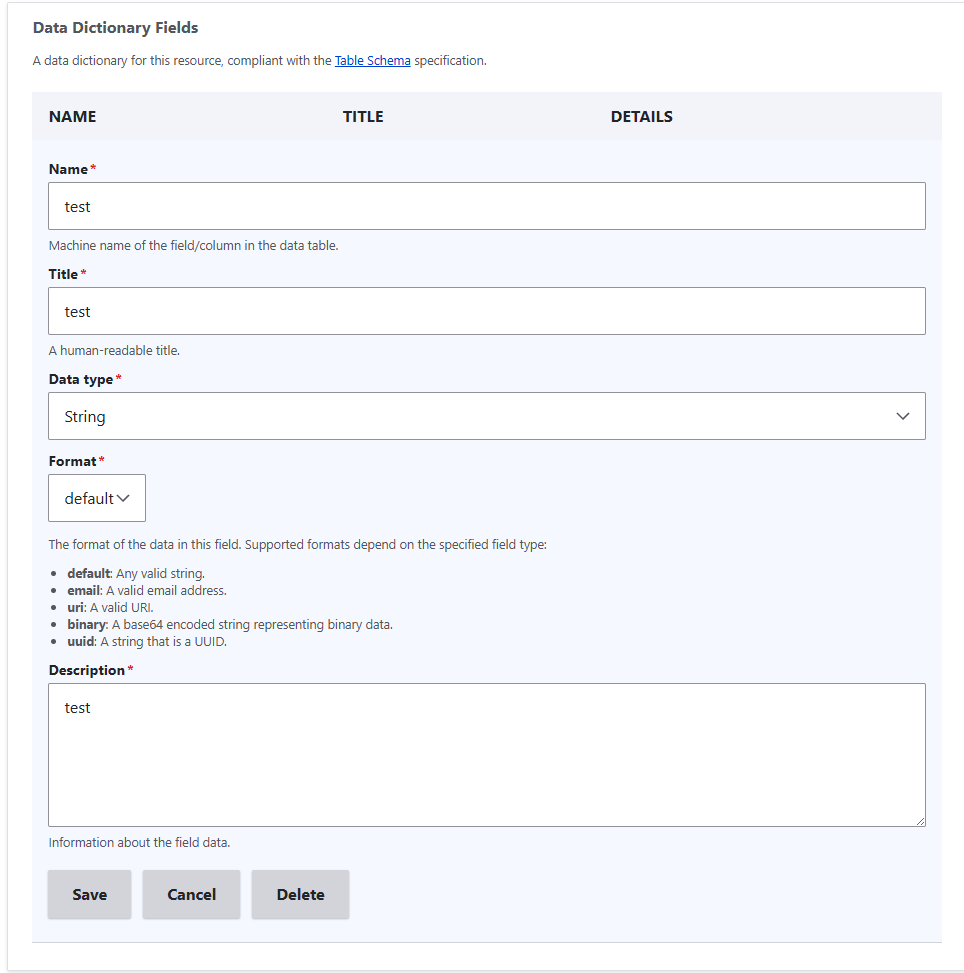
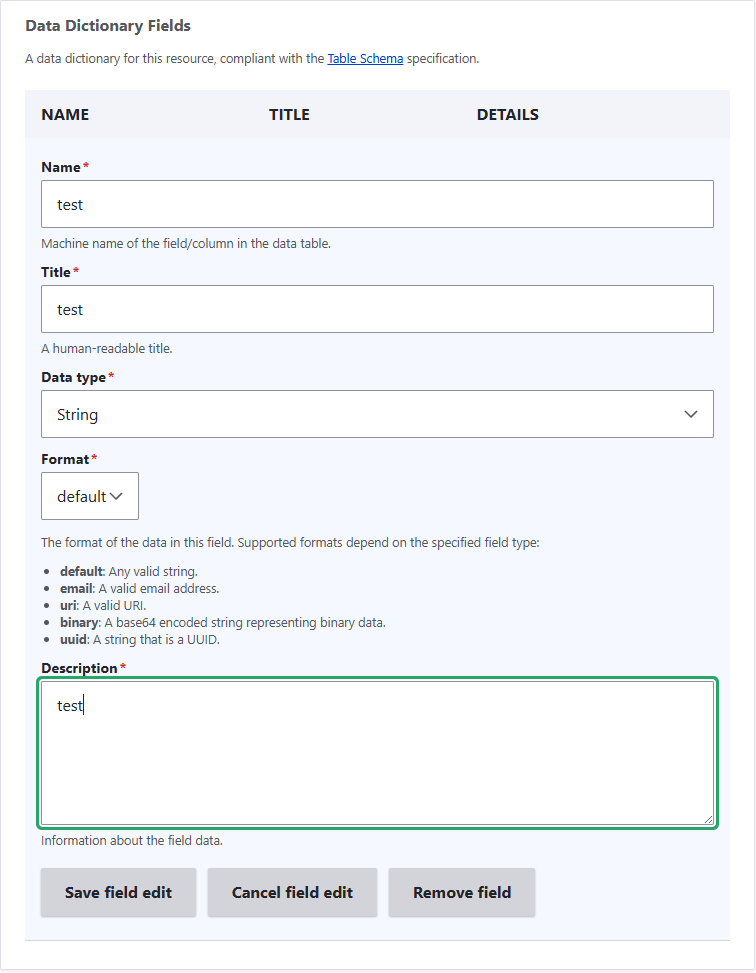
Dictionary-Widget: Streamline the button labels for the Index and Index Fields (#4324)

diff --git a/modules/data_dictionary_widget/src/Indexes/IndexFieldButtons.php b/modules/data_dictionary_widget/src/Indexes/IndexFieldButtons.php
@@ -13,7 +13,7 @@ class IndexFieldButtons {
   public static function addIndexFieldButton() {
     return [
       '#type' => 'submit',
-      '#value' => 'Add field',
+      '#value' => 'Add field to index',
       '#name' => 'add_index_field',
       '#access' => TRUE,
       '#op' => 'add_new_index_field',
@@ -113,9 +113,7 @@ class IndexFieldButtons {
   public static function submitIndexFieldButton($location, $indexKey) {
     $callbackClass = $location == 'edit' ? 'indexEditSubformCallback' : 'indexAddSubformCallback';
     $op = !empty($indexKey) ? 'update_' . $indexKey : 'add_index_field';
-    // @TODO fix the 'Add ' to drop the space, this will need the test to be
-    // updated as well.
-    $value = $location == 'edit' ? 'Save' : 'Add ';
+    $value = $location == 'edit' ? 'Save index field edit' : 'Save field to index';
     // Index fields cannot be edited once submitted so we use the same function
     // for both add and edit.
     $function = 'subIndexFormAjax';
@@ -199,7 +197,7 @@ class IndexFieldButtons {
   public static function submitIndexButton($location, $indexKey) {
     $callbackClass = $location == 'edit' ? 'indexEditCallback' : 'indexAddCallback';
     $op = !empty($indexKey) ? 'update_' . $indexKey : 'add_index';
-    $value = $location == 'edit' ? 'Save' : 'Submit Index';
+    $value = $location == 'edit' ? 'Save index edit' : 'Save index';
     $edit_index_button = [
       '#type' => 'submit',
       '#value' => $value,
@@ -244,7 +242,7 @@ class IndexFieldButtons {
   }
 
   /**
-   * Create Cancel button.
+   * Create Cancel adding index field button.
    */
   public static function cancelIndexFieldButton($location, $indexKey, $id) {
     $callbackId = ($id === 'field-json-metadata-index-fields-new') ? 'subIndexFormExistingFieldAjax' : 'subIndexFormAjax';
@@ -252,7 +250,7 @@ class IndexFieldButtons {
     $op = $location == 'edit' && $indexKey ? 'abort_' . $indexKey : 'cancel_index_field';
     $cancel_index_button = [
       '#type' => 'submit',
-      '#value' => t('Cancel'),
+      '#value' => t('Cancel adding field to index'),
       '#name' => 'cancel_index_field',
       '#op' => $op,
       '#submit' => [
@@ -271,19 +269,20 @@ class IndexFieldButtons {
 
     if ($location == 'edit') {
       $cancel_index_button['#name'] = 'cancel_update_' . $indexKey;
+      $cancel_index_button['#value'] = t('Cancel index field edit');
     }
     return $cancel_index_button;
   }
 
   /**
-   * Create Cancel button.
+   * Create Cancel adding index button.
    */
   public static function cancelIndexButton($location, $indexKey) {
     $callbackClass = $location == 'edit' ? 'indexEditCallback' : 'indexAddCallback';
     $op = $location == 'edit' && $indexKey ? 'abort_' . $indexKey : 'cancel_index';
     $cancel_index_button = [
       '#type' => 'submit',
-      '#value' => t('Cancel Index'),
+      '#value' => t('Cancel adding index'),
       '#name' => 'cancel_index',
       '#op' => $op,
       '#submit' => [
@@ -302,6 +301,8 @@ class IndexFieldButtons {
 
     if ($location == 'edit') {
       $cancel_index_button['#name'] = 'cancel_update_' . $indexKey;
+      $cancel_index_button['#value'] = t('Cancel index edit');
+      
     }
     return $cancel_index_button;
   }
@@ -313,7 +314,7 @@ class IndexFieldButtons {
     return [
       '#type' => 'submit',
       '#name' => 'index_delete_' . $indexKey,
-      '#value' => t('Delete index field'),
+      '#value' => t('Remove field from index'),
       '#op' => 'delete_' . $indexKey,
       '#submit' => [
         [
@@ -337,7 +338,7 @@ class IndexFieldButtons {
     return [
       '#type' => 'submit',
       '#name' => 'index_delete_' . $indexKey,
-      '#value' => t('Delete index'),
+      '#value' => t('Remove index'),
       '#op' => 'delete_' . $indexKey,
       '#submit' => [
         [

diff --git a/modules/data_dictionary_widget/tests/src/Functional/DataDictionaryWidgetTest.php b/modules/data_dictionary_widget/tests/src/Functional/DataDictionaryWidgetTest.php
@@ -74,7 +74,7 @@ class DataDictionaryWidgetTest extends BrowserTestBase {
     $page->selectFieldOption('field_json_metadata[0][dictionary_fields][field_collection][group][type]', $test_data_dictionary_field_type);
     $page->selectFieldOption('field_json_metadata[0][dictionary_fields][field_collection][group][format]', $test_data_dictionary_field_format);
     $page->fillField('field_json_metadata[0][dictionary_fields][field_collection][group][description]', $test_data_dictionary_field_description);
-    $page->pressButton('Add');
+    $page->pressButton('Save field');
 
     // Assert the values are being displayed.
     $session->pageTextContains($test_data_dictionary_field_name);
@@ -90,7 +90,7 @@ class DataDictionaryWidgetTest extends BrowserTestBase {
     $session->fieldValueEquals('field_json_metadata[0][dictionary_fields][data][0][field_collection][type]', $test_data_dictionary_field_type);
     $session->fieldValueEquals('field_json_metadata[0][dictionary_fields][data][0][field_collection][format]', $test_data_dictionary_field_format);
     $session->elementTextContains('css', 'textarea[name="field_json_metadata[0][dictionary_fields][data][0][field_collection][description]"]', $test_data_dictionary_field_description);
-    $page->pressButton('Cancel');
+    $page->pressButton('Cancel field edit');
 
     // Fill the indexes fields.
     $page->pressButton('Add index');
@@ -106,8 +106,8 @@ class DataDictionaryWidgetTest extends BrowserTestBase {
     $page->fillField('field_json_metadata[0][indexes][fields][field_collection][group][index][fields][name]', $test_index_name);
     $page->fillField('field_json_metadata[0][indexes][fields][field_collection][group][index][fields][length]', $test_index_length);
     // Need to distinguish the add button on the index fields vs the one for data dictionary fields.
-    $page->pressButton('Add ');
-    $page->pressButton('Submit Index');
+    $page->pressButton('Save field to index');
+    $page->pressButton('Save index');
 
     // Assert the values are being displayed.
     $session->pageTextContains($test_index_title);
@@ -121,7 +121,7 @@ class DataDictionaryWidgetTest extends BrowserTestBase {
     $session->fieldValueEquals('field_json_metadata[0][indexes][edit_index][index_key_0][type]', $test_index_type);
     $session->pageTextContains($test_index_name);
     $session->pageTextContains($test_index_length);
-    $page->pressButton('Cancel Index');
+    $page->pressButton('Cancel index edit');
 
     // Save the data dictionary.
     $page->pressButton('Save');

diff --git a/modules/data_dictionary_widget/src/Fields/FieldButtons.php b/modules/data_dictionary_widget/src/Fields/FieldButtons.php
@@ -69,7 +69,7 @@ class FieldButtons {
   public static function submitButton($location, $key) {
     $callbackClass = $location == 'edit' ? 'editSubformCallback' : 'addSubformCallback';
     $op = is_int($key) ? 'update_' . $key : 'add';
-    $value = $location == 'edit' ? 'Save' : 'Add';
+    $value = $location == 'edit' ? 'Save field edit' : 'Save field';
     $edit_button = [
       '#type' => 'submit',
       '#value' => $value,
@@ -110,9 +110,10 @@ class FieldButtons {
   public static function cancelButton($location, $key) {
     $callbackClass = $location == 'edit' ? 'editSubformCallback' : 'addSubformCallback';
     $op = $location == 'edit' && is_int($key) ? 'abort_' . $key : 'cancel';
+
     $cancel_button = [
       '#type' => 'submit',
-      '#value' => t('Cancel'),
+      '#value' => t('Cancel adding field'),
       '#name' => 'cancel_dictionary_field',
       '#op' => $op,
       '#submit' => [
@@ -131,6 +132,7 @@ class FieldButtons {
 
     if ($location == 'edit') {
       $cancel_button['#name'] = 'cancel_update_' . $key;
+      $cancel_button['#value'] = t('Cancel field edit');
     }
     return $cancel_button;
   }
@@ -142,7 +144,7 @@ class FieldButtons {
     return [
       '#type' => 'submit',
       '#name' => 'delete_' . $key,
-      '#value' => t('Delete'),
+      '#value' => t('Remove field'),
       '#op' => 'delete_' . $key,
       '#submit' => [
             [

diff --git a/modules/data_dictionary_widget/src/Indexes/IndexFieldAddCreation.php b/modules/data_dictionary_widget/src/Indexes/IndexFieldAddCreation.php
@@ -77,7 +77,7 @@ class IndexFieldAddCreation {
       '#title' => t('Add new field'),
       '#prefix' => "<div id = $id>",
       '#suffix' => '</div>',
-      '#markup' => t('<div class="claro-details__description">Add a single index field. Must be keys from the fields object.</div>'),
+      '#markup' => t('<div class="claro-details__description">Must be keys from the fields object.</div>'),
     ];
 
     $add_index_fields['group']['index']['fields']['name'] = [

diff --git a/modules/data_dictionary_widget/src/Indexes/IndexFieldEditCreation.php b/modules/data_dictionary_widget/src/Indexes/IndexFieldEditCreation.php
@@ -99,7 +99,7 @@ class IndexFieldEditCreation {
     return [
       '#type' => 'actions',
       'save_update' => IndexFieldButtons::submitIndexFieldButton('edit', $indexKey),
-      'cancel_updates' => IndexFieldButtons::cancelIndexButton('edit', $indexKey, $id),
+      'cancel_updates' => IndexFieldButtons::cancelIndexFieldButton('edit', $indexKey, $id),
       'delete_field' => IndexFieldButtons::deleteIndexFieldButton($indexKey),
     ];
   }

diff --git a/docs/source/user-guide/guide_indexes.rst b/docs/source/user-guide/guide_indexes.rst
@@ -94,46 +94,46 @@ Indexes
 
 Index Fields
 ^^^^^^^^^^^^
-1. To add an index field, click "Add field" under the ‘Fields’ section within the respective ‘Index’ section.
+1. To add an index field, click "Add field to index" under the ‘Fields’ section within the respective ‘Index’ section.
 2. An editable "Add new field" form box will appear. Complete the required form fields here:
 
   .. image:: images/indexes/add-index-fields-editable-form-box.png
-    :alt: A portion of the data dictionary creation admin page with a focus on the editable form that appears after clicking the "Add new field or add field" button.
+    :alt: A portion of the data dictionary creation admin page with a focus on the editable form that appears after clicking the "Add field to index" button.
 
  a. Name: Enter a name, this must be a key from the dictionary fields object as created previously (see step 4 in the ‘Prerequisites’ section above for reference).
- b. Length: how many characters long this field can be.
+ b. Length: The number of characters of the column you want to index. Indexing only a prefix of column values in this way can make the index file much smaller.
 
-3. Click "Add" to save the field temporarily. Remember that the Data Dictionary and it's respective fields and indexes are not completely saved until the form is submitted by clicking "Save".
-4. Alternatively you can click "Cancel" to stop creating the index field, at which point all the information you entered will be removed and the editable "Add new field" form box will close.
+3. Click "Save field to index" to save the field temporarily. Remember that the Data Dictionary and it's respective fields and indexes are not completely saved until the form is submitted by clicking "Save" at the bottom of the screen.
+4. Alternatively you can click "Cancel adding field to index" to stop creating the index field, at which point all the information you entered will be removed and the editable "Add new field" form box will close.
 5. Note that after saving an index field, an informational table will appear listing the index fields you have created thus far and their names and length.
 
   .. image:: images/indexes/add-index-fields-informational-table.png
     :alt: A portion of the data dictionary creation admin page with a focus on informational table that appears after saving an index field.
 
  a. You also have the ability to edit or modify the fields you've created so far by clicking the gear icon on the right-hand side of this table.
- b. Clicking the gear icon will open an editable form that will show the previously entered information for the respective index field. You can then modify this information and either: "Save Index Field" (retain the modifications), "Cancel Index Field" (close the editable form box without retaining any modifications) or "Delete Index Field" (remove the respective index field entirely).
+ b. Clicking the gear icon will open an editable form that will show the previously entered information for the respective index field. You can then modify this information and either: "Save index field edit" (retain the modifications), "Cancel index field edit" (close the editable form box without retaining any modifications) or "Remove field from index" (remove the respective index field entirely).
 
     .. image:: images/indexes/edit-index-fields.png
       :alt: A portion of the data dictionary creation admin page with a focus on editable form that appears after you click the gear icon to edit a specific index field.
 
-6. You can enter additional index fields by clicking "Add field" (in this index section) and repeating steps 2-3 in this Index Fields section again.
-7. After defining the index fields, click "Submit Index" to save the index temporarily. Remember that the Data Dictionary and it's respective fields and indexes are not completely saved until the form is submitted by clicking "Save".
+6. You can enter additional index fields by clicking "Add field to index" (in this index section) and repeating steps 2-3 in this Index Fields section again.
+7. After defining the index fields, click "Save index" to save the index temporarily. Remember that the Data Dictionary and it's respective fields and indexes are not completely saved until the form is submitted by clicking "Save" at the bottom of the screen.
    
   .. image:: images/indexes/edit-index-box.png
-    :alt: A portion of the data dictionary creation admin page with a focus on the indexes box, specifically meant to reference the "Submit Index" button.
+    :alt: A portion of the data dictionary creation admin page with a focus on the indexes box, specifically meant to reference the "Save index" button.
 
-8. Note that after submitting, an informational table will appear listing the indexes you have created thus far and their names, types, and fields (field name and field length).
+8. Note that after saving the index, an informational table will appear listing the indexes you have created thus far and their names, types, and fields (field name and field length).
 
   .. image:: images/indexes/add-index-informational-table.png
     :alt: A portion of the data dictionary creation admin page with a focus on informational table that appears after saving an index.
 
  a. You also have the ability to edit or modify the indexes you've created so far by clicking the gear icon on the right-hand side of this table.
- b. Clicking the gear icon will open an editable form that will show the previously entered information for the respective index. You can then modify this information and either: "Save" (retain the modifications), "Cancel Index" (close the editable form box without retaining any modifications) or "Delete Index" (remove the respective index entirely).
+ b. Clicking the gear icon will open an editable form that will show the previously entered information for the respective index. You can then modify this information and either: "Save index edit" (retain the modifications), "Cancel index edit" (close the editable form box without retaining any modifications) or "Remove index" (remove the respective index entirely).
 
     .. image:: images/indexes/edit-index.png
       :alt: A portion of the data dictionary creation admin page with a focus on the edit index box.
 
-   1. Note here that it is not possible to modify index fields in this manner at this time. If you must change an index field, the current work around is to delete the associated index entirely and re-create it and it's fields again.
+   1. Note that once you have saved an index, it is not possible to edit the fields within the index at this time. If you must change an index field, the current work around is to delete the associated index entirely and re-create it and it's fields again.
 
 9. Finally, make sure you click "Save" and then "Yes" to "Are you sure you want to publish this item?" in order to submit the form in it's entirety, saving the data dictionary.
 

diff --git a/docs/source/user-guide/guide_data_dictionaries.rst b/docs/source/user-guide/guide_data_dictionaries.rst
@@ -205,15 +205,15 @@ Creating a data dictionary via the UI
   .. image:: images/fields/add-data-field-editable-form-box.png
     :alt: A portion of the data dictionary creation admin page with a focus on the "Add new field" section.
 
-6. Click "Add" to save the field temporarily. Remember that the Data Dictionary and it's respective fields are not completely saved until the form is submitted in it's entirety by clicking "Save".
-7. Alternatively you can click "Cancel" to stop creating the Data Dictionary field, at which point all the information you entered will be removed and the "Add new Field" box will close.
+6. Click "Save field" to save the field temporarily. Remember that the Data Dictionary and it's respective fields are not completely saved until the form is submitted in it's entirety by clicking "Save".
+7. Alternatively you can click "Cancel adding field" to stop creating the Data Dictionary field, at which point all the information you entered will be removed and the "Add new Field" box will close.
 8. Note that after saving, an informational table will appear listing the data dictionary fields you have created thus far and their names, titles, and details (data types, formats and descriptions).
 
   .. image:: images/fields/edit-data-field-informational-table.png
     :alt: A portion of the data dictionary creation admin page with a focus on the informational table that appears.
 
 9. You also have the ability to edit or modify the data dictionary fields you've created so far by clicking the gear icon on the right-hand side of this table.
-10.  Clicking the gear icon will open an editable form that will show the previously entered information for the respective data dictionary field. You can then modify this information and either: "Save" (retain the modifications), "Cancel" (close the editable form box without retaining any modifications) or "Delete" (remove the respective Data Dictionary field entirely).
+10.  Clicking the gear icon will open an editable form that will show the previously entered information for the respective data dictionary field. You can then modify this information and either: "Save field edit" (retain the modifications), "Cancel field edit" (close the editable form box without retaining any modifications) or "Remove field" (remove the respective Data Dictionary field entirely).
 
   .. image:: images/fields/edit-data-field.png
     :alt: A portion of the data dictionary creation admin page with a focus on the editable form that appears in order to modify the data dictionary field.
